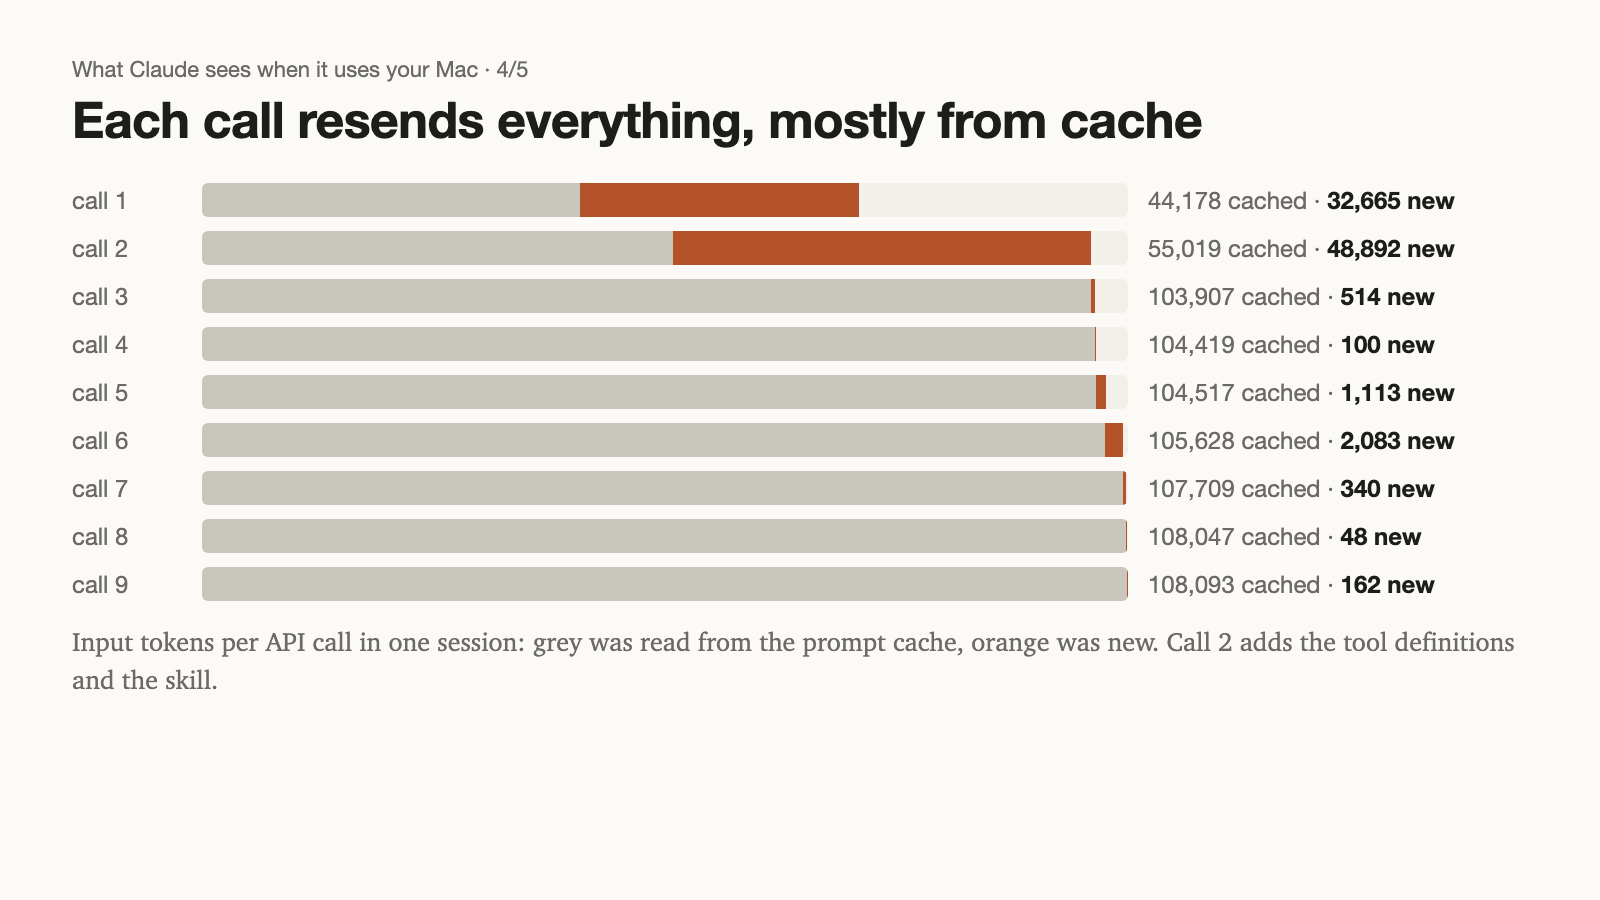
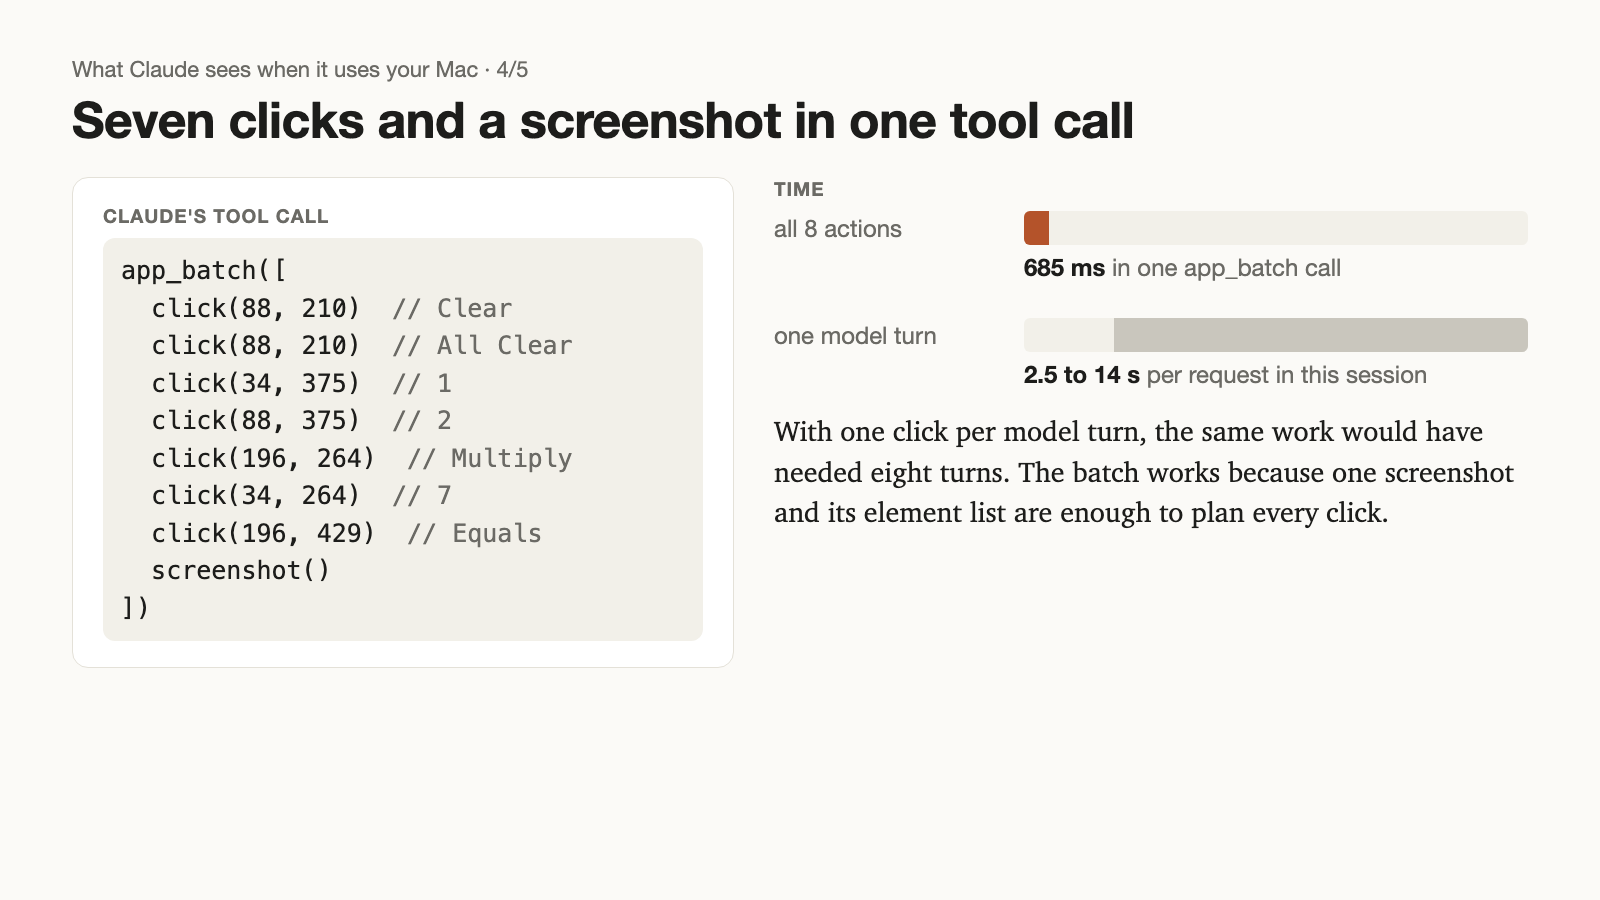
Rewrite the tweet thread around the new framing; add a batching image

Changed region(s): [[0.0312, 0.0933, 0.9688, 0.7778]]

diff --git a/docs/tweets/cards.html b/docs/tweets/cards.html
@@ -58,7 +58,21 @@ pre{font:24px/1.5 ui-monospace,Menlo,monospace;margin:0;white-space:pre-wrap}
         <div class="k">Claude's reply</div><pre class="io">Skill("anthropic-skills:computer-use")
 ToolSearch("computer-use")</pre></div>
         <div class="panel"><div class="k">Request 2</div><p class="say"><b>74 tools.</b> 27 computer-use definitions, about 60k characters, and a 12k-character skill.</p>
-        <div class="names"><span>app_ax_find</span> <span>app_batch</span> <span>app_bring_to_current_space</span> <span>app_click</span> <span>app_drag</span> <span>app_focus</span> <span>app_key</span> <span>app_list_windows</span> <span>app_menu</span> <span>app_release</span> <span>app_screenshot</span> <span>app_scroll</span> <span>app_type</span> <span>app_zoom</span> <span>computer_batch</span> <span>list_apps</span> <span>list_granted_applications</span> <span>open_application</span> <span>read_clipboard</span> <span>release_full_control</span> <span>request_access</span> <span>request_full_control</span> <span>request_teach_access</span> <span>switch_display</span> <span>teach_batch</span> <span>teach_step</span> <span>write_clipboard</span></div></div></div></section><section class="card" id="c4"><div class="kick">What Claude sees when it uses your Mac · 4/5</div><h1>Each call resends everything, mostly from cache</h1><div class="bars"><div class="br"><span class="bn">call 1</span><span class="bt"><span class="rd" style="width:40.81%"></span><span class="nw" style="width:30.17%"></span></span><span class="bv">44,178 cached · <b>32,665 new</b></span></div><div class="br"><span class="bn">call 2</span><span class="bt"><span class="rd" style="width:50.82%"></span><span class="nw" style="width:45.16%"></span></span><span class="bv">55,019 cached · <b>48,892 new</b></span></div><div class="br"><span class="bn">call 3</span><span class="bt"><span class="rd" style="width:95.98%"></span><span class="nw" style="width:0.47%"></span></span><span class="bv">103,907 cached · <b>514 new</b></span></div><div class="br"><span class="bn">call 4</span><span class="bt"><span class="rd" style="width:96.46%"></span><span class="nw" style="width:0.09%"></span></span><span class="bv">104,419 cached · <b>100 new</b></span></div><div class="br"><span class="bn">call 5</span><span class="bt"><span class="rd" style="width:96.55%"></span><span class="nw" style="width:1.03%"></span></span><span class="bv">104,517 cached · <b>1,113 new</b></span></div><div class="br"><span class="bn">call 6</span><span class="bt"><span class="rd" style="width:97.57%"></span><span class="nw" style="width:1.92%"></span></span><span class="bv">105,628 cached · <b>2,083 new</b></span></div><div class="br"><span class="bn">call 7</span><span class="bt"><span class="rd" style="width:99.50%"></span><span class="nw" style="width:0.31%"></span></span><span class="bv">107,709 cached · <b>340 new</b></span></div><div class="br"><span class="bn">call 8</span><span class="bt"><span class="rd" style="width:99.81%"></span><span class="nw" style="width:0.04%"></span></span><span class="bv">108,047 cached · <b>48 new</b></span></div><div class="br"><span class="bn">call 9</span><span class="bt"><span class="rd" style="width:99.85%"></span><span class="nw" style="width:0.15%"></span></span><span class="bv">108,093 cached · <b>162 new</b></span></div></div><p class="say small">Input tokens per API call in one session: grey was read from the prompt cache, orange was new. Call 2 adds the tool definitions and the skill.</p></section><section class="card" id="c5"><div class="kick">What Claude sees when it uses your Mac · 5/5</div><h1>Processes involved in one click</h1><div class="fig2"><svg viewBox="0 0 760 340" role="img" aria-label="Processes involved in one click and the messages between them">
+        <div class="names"><span>app_ax_find</span> <span>app_batch</span> <span>app_bring_to_current_space</span> <span>app_click</span> <span>app_drag</span> <span>app_focus</span> <span>app_key</span> <span>app_list_windows</span> <span>app_menu</span> <span>app_release</span> <span>app_screenshot</span> <span>app_scroll</span> <span>app_type</span> <span>app_zoom</span> <span>computer_batch</span> <span>list_apps</span> <span>list_granted_applications</span> <span>open_application</span> <span>read_clipboard</span> <span>release_full_control</span> <span>request_access</span> <span>request_full_control</span> <span>request_teach_access</span> <span>switch_display</span> <span>teach_batch</span> <span>teach_step</span> <span>write_clipboard</span></div></div></div></section><section class="card" id="c4"><div class="kick">What Claude sees when it uses your Mac · 4/5</div><h1>Seven clicks and a screenshot in one tool call</h1><div class="row two"><div class="panel" style="flex:0 0 600px"><div class="k">Claude's tool call</div><pre class="ax big">app_batch([
+  click(88, 210)  <span class="ln">// Clear</span>
+  click(88, 210)  <span class="ln">// All Clear</span>
+  click(34, 375)  <span class="ln">// 1</span>
+  click(88, 375)  <span class="ln">// 2</span>
+  click(196, 264)  <span class="ln">// Multiply</span>
+  click(34, 264)  <span class="ln">// 7</span>
+  click(196, 429)  <span class="ln">// Equals</span>
+  screenshot()
+])</pre></div><div class="col"><div class="k">Time</div><div class="bars">
+<div class="br" style="grid-template-columns:230px 1fr"><span class="bn">all 8 actions</span><span class="bt"><span class="nw" style="width:4.89%"></span></span></div>
+<div class="br" style="grid-template-columns:230px 1fr;margin-top:-6px"><span></span><span class="bv"><b>685 ms</b> in one app_batch call</span></div>
+<div class="br" style="grid-template-columns:230px 1fr;margin-top:22px"><span class="bn">one model turn</span><span class="bt"><span style="width:17.86%"></span><span class="rd" style="width:82.14%"></span></span></div>
+<div class="br" style="grid-template-columns:230px 1fr;margin-top:-6px"><span></span><span class="bv"><b>2.5 to 14 s</b> per request in this session</span></div>
+</div><p class="say">With one click per model turn, the same work would have needed eight turns. The batch works because one screenshot and its element list are enough to plan every click.</p></div></div></section><section class="card" id="c5"><div class="kick">What Claude sees when it uses your Mac · 5/5</div><h1>Processes involved in one click</h1><div class="fig2"><svg viewBox="0 0 760 340" role="img" aria-label="Processes involved in one click and the messages between them">
   <defs><marker id="ar" viewBox="0 0 10 10" refX="9" refY="5" markerWidth="6" markerHeight="6" orient="auto-start-reverse"><path d="M0,0 L10,5 L0,10 z" class="ah"/></marker></defs>
   <g class="box"><rect x="8" y="20" width="150" height="70" rx="10"/><text x="83" y="50" class="t1">Anthropic API</text><text x="83" y="70" class="t2">runs the model</text></g>
   <g class="box"><rect x="8" y="170" width="150" height="90" rx="10"/><text x="83" y="200" class="t1">Claude Code</text><text x="83" y="220" class="t2">the claude process,</text><text x="83" y="236" class="t2">one per session</text></g>

diff --git a/docs/tweets/index.html b/docs/tweets/index.html
@@ -10,4 +10,16 @@ section{border-top:1px solid var(--rule);padding:18px 0 22px}
 p{font-size:17px;margin:.4em 0 .8em;white-space:pre-wrap}
 img{width:100%;height:auto;border:1px solid var(--rule);border-radius:14px;display:block}
 a{color:var(--accent);font-size:14px;display:inline-block;margin-top:6px}
-</style></head><body><main><h1>Thread draft</h1><p class="sub">Five posts, one 1600×900 image each, built from the same logged session as the post. Character counts follow X's rule that a link counts as 23. Replace [link] with the post's address.</p><section><div class="n">1/5 <span>267/280</span></div><p>What does Claude receive when it uses your Mac? I logged every API request and inter-process message in one computer-use session in the Claude desktop app. Each step: a screenshot, a numbered list of clickable elements, and a one-line text result after each click. 🧵</p><img src="tweet-1.png" alt="image for tweet 1"><a href="tweet-1.png" download>Download image</a></section><section><div class="n">2/5 <span>253/280</span></div><p>The list comes from the macOS accessibility API: each element&#x27;s number, box and title. Claude sends a list number or a pixel coordinate, here (88, 318), the centre of element [14]. The server performs that element&#x27;s press action; no mouse event is sent.</p><img src="tweet-2.png" alt="image for tweet 2"><a href="tweet-2.png" download>Download image</a></section><section><div class="n">3/5 <span>279/280</span></div><p>Claude doesn&#x27;t have the computer-use tools at first. The first request lists only their names; Claude loads a skill and calls ToolSearch, and the next request has all 27 definitions (about 60k characters). All its instructions are text: system message, skill, tool docs, results.</p><img src="tweet-3.png" alt="image for tweet 3"><a href="tweet-3.png" download>Download image</a></section><section><div class="n">4/5 <span>238/280</span></div><p>Each call resends the whole conversation, including screenshots: about 105k tokens. From the third call on, over 98% of each request was read from the prompt cache, so each call added between a few dozen and about two thousand new tokens.</p><img src="tweet-4.png" alt="image for tweet 4"><a href="tweet-4.png" download>Download image</a></section><section><div class="n">5/5 <span>266/280</span></div><p>Claude Code talks to the desktop app over stdin/stdout, the computer-use MCP server runs inside the app&#x27;s own process, and one native call finds and presses the button: 43 ms of the 117 ms the click took. Post, with every request in a viewer: [link]</p><img src="tweet-5.png" alt="image for tweet 5"><a href="tweet-5.png" download>Download image</a></section></main></body></html>
+</style></head><body><main><h1>Thread draft</h1><p class="sub">Five posts, one 1600×900 image each, built from the same logged session as the post. Character counts follow X's rules: a link counts as 23 and an emoji as 2.</p><section><div class="n">1/5 <span>275/280</span></div><p>I wanted to add computer use to my own LLM harness, so I logged what the Claude desktop app sends while Claude uses a Mac.
+
+Short version: an MCP server sends the model a screenshot plus a numbered list of buttons from the macOS accessibility API.
+
+https://runfme.github.io/claude-computer-use-trace/ 🧵</p><img src="tweet-1.png" alt="image for tweet 1"><a href="tweet-1.png" download>Download image</a></section><section><div class="n">2/5 <span>274/280</span></div><p>To click, Claude sends a list number or a pixel coordinate, here (88, 318), the centre of button [14].
+
+The server doesn&#x27;t move the mouse. It finds the accessibility element at that point and asks macOS to press it. The tool result is one line: ok (AXPress on AXButton &#x27;5&#x27;).</p><img src="tweet-2.png" alt="image for tweet 2"><a href="tweet-2.png" download>Download image</a></section><section><div class="n">3/5 <span>241/280</span></div><p>Claude doesn&#x27;t start with the computer-use tools. The first request has only their names.
+
+Its first move is to call ToolSearch, which loads all 27 tool definitions into the next request, and to load a skill: a text guide on how to use them.</p><img src="tweet-3.png" alt="image for tweet 3"><a href="tweet-3.png" download>Download image</a></section><section><div class="n">4/5 <span>262/280</span></div><p>The tool that matters most is app_batch: one call with a list of actions.
+
+Claude sent seven clicks and a screenshot in a single call, and the server ran all eight in 685 ms. A single model turn took 2.5 to 14 s, so one click per turn would have been far slower.</p><img src="tweet-4.png" alt="image for tweet 4"><a href="tweet-4.png" download>Download image</a></section><section><div class="n">5/5 <span>273/280</span></div><p>The desktop app is a wrapper: it runs the Claude Code CLI and talks to it over stdin/stdout. The computer-use server runs inside the app&#x27;s own process and calls a Swift library for the accessibility API.
+
+Every request is in the post, with a viewer: https://runfme.github.io/claude-computer-use-trace/</p><img src="tweet-5.png" alt="image for tweet 5"><a href="tweet-5.png" download>Download image</a></section></main></body></html>

diff --git a/docs/index.html b/docs/index.html
@@ -53,7 +53,7 @@ details.appendix p,details.appendix li{font-size:16px}
 .foot{margin-top:3em;font:13px -apple-system,sans-serif;color:var(--muted)}
 @media (max-width:640px){body{font-size:17px}h1{font-size:1.8rem}.fig1 .f1{flex-direction:column}.shotwrap,.shotwrap img,.shotwrap svg{width:200px;height:401px}.fig2{overflow-x:auto}.fig2 svg{min-width:600px}}
 </style>
-<link rel="stylesheet" href="scaffold.css?v=1793648336">
+<link rel="stylesheet" href="scaffold.css?v=1793648498">
 </head>
 <body>
 <main>
@@ -64,7 +64,7 @@ details.appendix p,details.appendix li{font-size:16px}
 
 <p>I noticed that many people, me included, use AI agents without understanding how modern <strong>harnesses</strong> handle magic capabilities such as <strong>computer use</strong> or orchestrating subagents. Most people who work with AI know the basic <strong>ReAct loop</strong> behind an agent: the model calls a tool, reads the result and decides on the next call. Fewer know how modern harnesses build stuff on top of that loop. To investigate computer use, I logged one session in the Claude desktop app and analyzed it for you. By the end of the article, you will know how computer use works and how Claude's scaffolding works.</p>
 <p>First, let's set the stage: here are the components we will see. The <strong>Claude desktop app</strong> runs <strong>Claude Code</strong> (the <code>claude</code> CLI) as a separate process, and Claude Code sends the requests to the <strong>Anthropic API</strong>. Inside the desktop app runs an <strong>MCP server</strong> called <strong><code>computer-use</code></strong>. It sits between the model and macOS: it takes screenshots and presses buttons using macOS's old accessibility features.</p>
-<p>When the model decides to use the computer, it calls the MCP server for a <strong>screenshot</strong> of an app. The <strong>tool result</strong> contains the image and a enumerated <strong>clickable element list</strong>: the buttons and fields that the <strong>macOS accessibility API</strong> reports for that window. To click, the model calls another tool from the same MCP server with either a number from the list or a pixel coordinate, and the tool result is one line of text that names the element that was pressed.</p>
+<p>When the model decides to use the computer, it calls the MCP server for a <strong>screenshot</strong> of an app. The <strong>tool result</strong> contains the image and an enumerated <strong>clickable element list</strong>: the buttons and fields that the <strong>macOS accessibility API</strong> reports for that window. To click, the model calls another tool from the same MCP server with either a number from the list or a pixel coordinate, and the tool result is one line of text that names the element that was pressed.</p>
 <figure class="fig1">
   <div class="f1">
     <div class="f1-col">
@@ -148,8 +148,8 @@ details.appendix p,details.appendix li{font-size:16px}
 </details>
 <p class="foot">Logged on November 1, 2026, with Claude desktop app 4.4212, Claude Code 2.1.309 and macOS 27. The viewer's data is the real request log of one session, about 400 KB of JSON.</p>
 </main>
-<script>window.BUILD = "1793648336";</script>
-<script src="scaffold.js?v=1793648336"></script>
+<script>window.BUILD = "1793648498";</script>
+<script src="scaffold.js?v=1793648498"></script>
 <script>
 if (new URLSearchParams(location.search).has("live")) setInterval(() => fetch("build-id.txt", {cache: "no-store"}).then(r => r.text()).then(t => { if (t.trim() !== window.BUILD) location.reload(); }).catch(() => {}), 1000);
 </script>

diff --git a/post/post.md b/post/post.md
@@ -18,7 +18,7 @@ I noticed that many people, me included, use AI agents without understanding how
 
 First, let's set the stage: here are the components we will see. The **Claude desktop app** runs **Claude Code** (the `claude` CLI) as a separate process, and Claude Code sends the requests to the **Anthropic API**. Inside the desktop app runs an **MCP server** called **`computer-use`**. It sits between the model and macOS: it takes screenshots and presses buttons using macOS's old accessibility features.
 
-When the model decides to use the computer, it calls the MCP server for a **screenshot** of an app. The **tool result** contains the image and a enumerated **clickable element list**: the buttons and fields that the **macOS accessibility API** reports for that window. To click, the model calls another tool from the same MCP server with either a number from the list or a pixel coordinate, and the tool result is one line of text that names the element that was pressed.
+When the model decides to use the computer, it calls the MCP server for a **screenshot** of an app. The **tool result** contains the image and an enumerated **clickable element list**: the buttons and fields that the **macOS accessibility API** reports for that window. To click, the model calls another tool from the same MCP server with either a number from the list or a pixel coordinate, and the tool result is one line of text that names the element that was pressed.
 
 ::: figure core-figure
 One step from the logged session. The boxes are the element list drawn onto the image. Claude clicked at (88, 318), the centre of element [14]; the server found the button at that point and pressed it through the macOS accessibility API.
